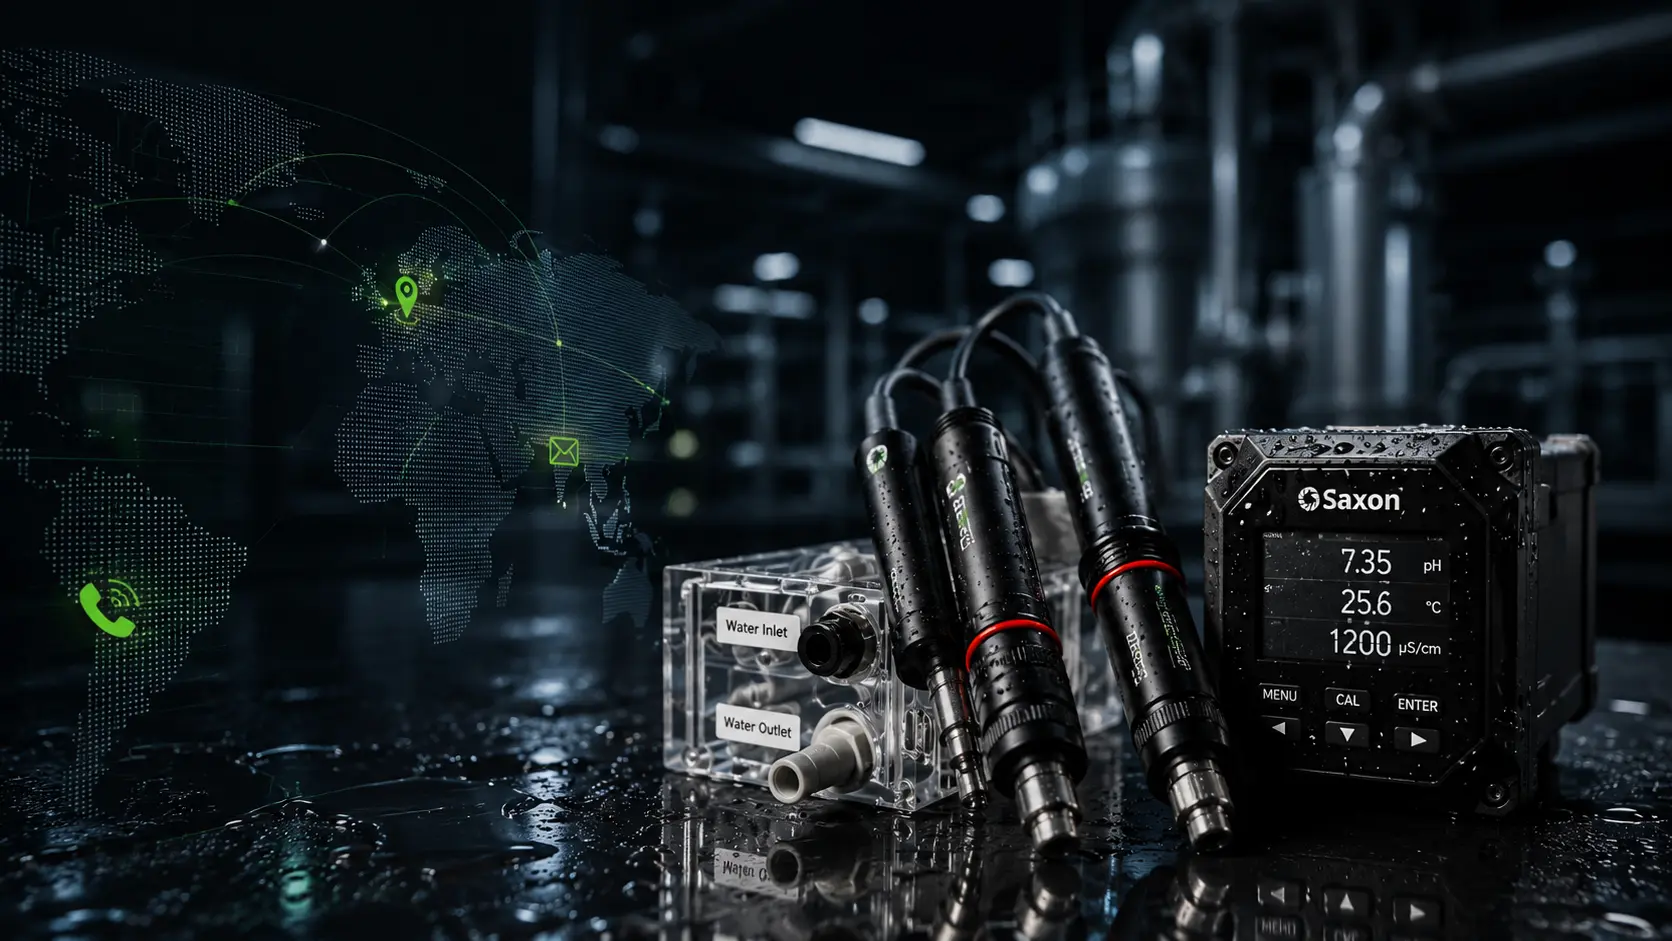
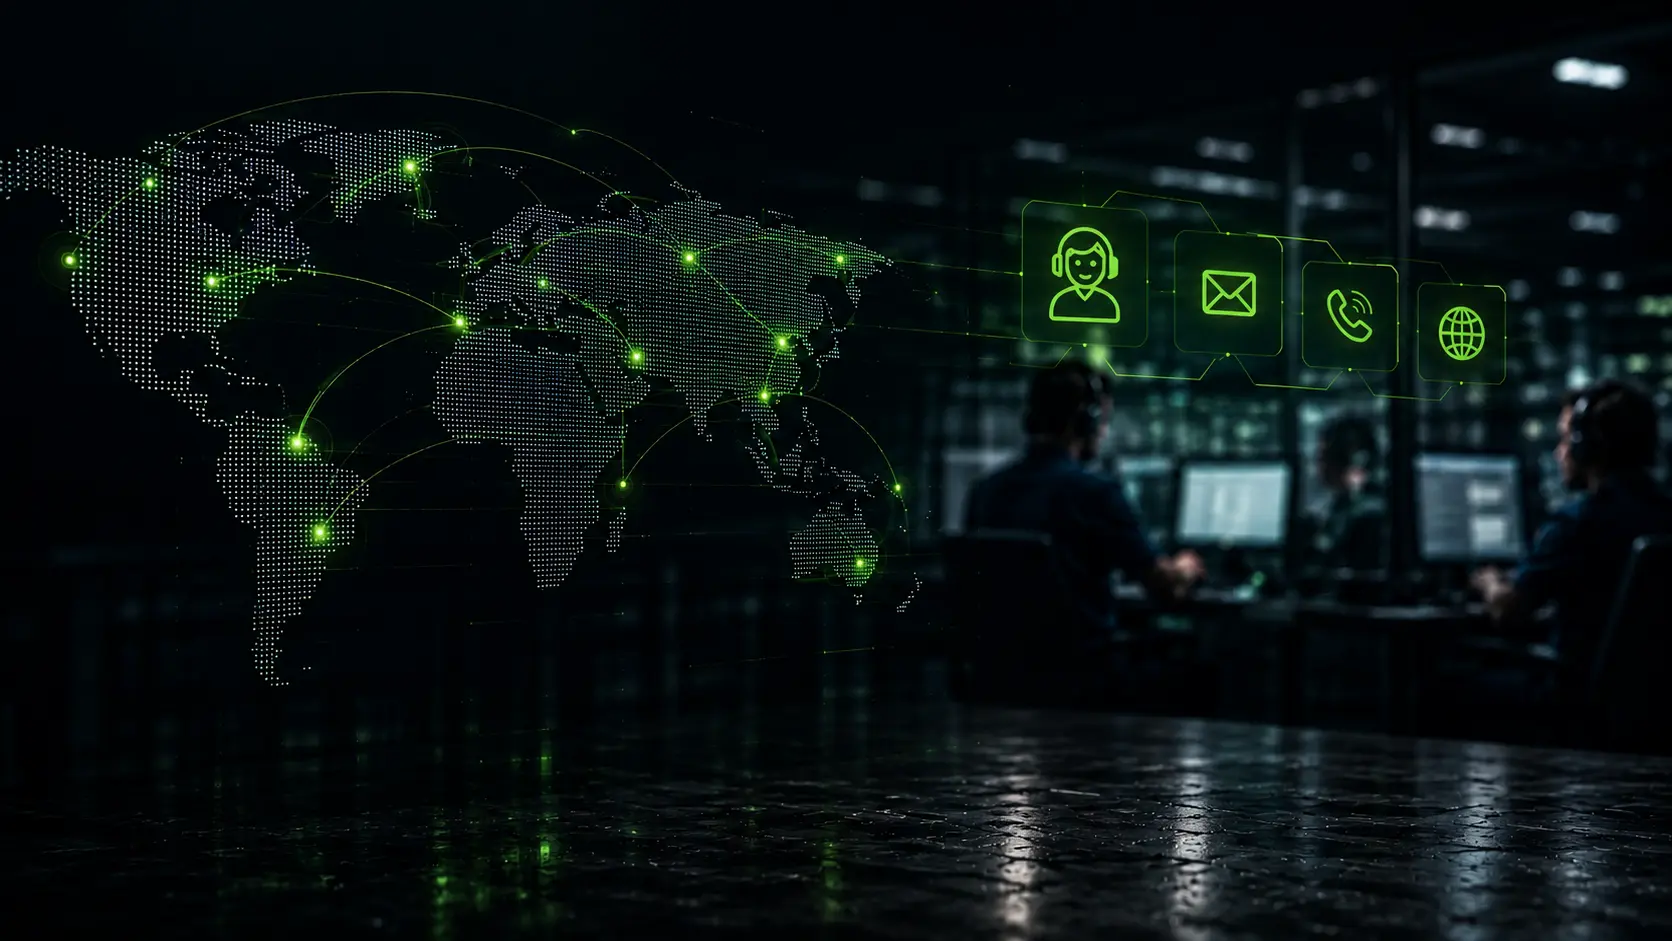
about contact

diff --git a/resources/views/pages/about.blade.php b/resources/views/pages/about.blade.php
@@ -5,19 +5,16 @@
 @section('content')
 
 <!-- Hero Section -->
-<section class="relative pt-32 pb-32 lg:pt-48 lg:pb-40 overflow-hidden min-h-[670px] lg:min-h-[700px]">
-    <div class="absolute inset-0 z-0 bg-[#05080D]">
+<section class="relative pt-32 pb-24 lg:pt-48 lg:pb-32 overflow-hidden min-h-[500px] lg:min-h-[700px] bg-[#05080D]">
+    <div class="absolute inset-0 z-0">
         <img src="/assets/hero/about-hero.webp" alt="About Us Background" class="w-full h-full object-cover opacity-80">
-        <!-- Dark Edge Smoothing -->
-        <div class="absolute inset-x-0 bottom-0 h-48 bg-gradient-to-t from-[#05080D] via-[#05080D]/60 to-transparent pointer-events-none"></div>
+        <!-- Dark Edge Smoothing to white -->
+        <div class="absolute inset-x-0 bottom-0 h-12 lg:h-20 bg-gradient-to-t from-white via-white/70 to-transparent pointer-events-none z-10"></div>
     </div>
-    
-    <!-- White Mist Transition to next section -->
-    <div class="absolute inset-x-0 bottom-0 h-32 lg:h-48 bg-gradient-to-t from-white via-white/80 to-transparent pointer-events-none z-10"></div>
     <div class="max-w-7xl mx-auto px-4 sm:px-6 lg:px-8 relative z-20">
         <div class="w-full lg:w-[80%] fade-in-up relative">
             <!-- Fog behind text -->
-            <div class="absolute -inset-10 lg:-inset-20 z-0 pointer-events-none" style="background: radial-gradient(ellipse at center left, rgba(5,8,13,0.9) 0%, rgba(5,8,13,0.6) 50%, transparent 80%); filter: blur(40px);"></div>
+            <div class="absolute -inset-4 lg:-inset-10 z-0 pointer-events-none" style="background: radial-gradient(ellipse at center left, rgba(5,8,13,0.85) 0%, rgba(5,8,13,0.5) 45%, transparent 75%); filter: blur(30px);"></div>
             
             <div class="relative z-10">
             <p class="text-[#6EDC44] font-bold tracking-widest text-xs lg:text-sm uppercase mb-3">About Us</p>

diff --git a/resources/views/pages/contact.blade.php b/resources/views/pages/contact.blade.php
@@ -10,13 +10,13 @@
     <div class="absolute inset-0 z-0">
         <img src="/assets/hero/contact-hero.webp" alt="Contact Us Background" class="w-full h-full object-cover object-center opacity-60 mix-blend-screen" style="image-rendering: auto;">
         <!-- Dark Edge Smoothing to white -->
-        <div class="absolute inset-x-0 bottom-0 h-24 lg:h-32 bg-gradient-to-t from-white via-white/70 to-transparent pointer-events-none z-10"></div>
+        <div class="absolute inset-x-0 bottom-0 h-12 lg:h-20 bg-gradient-to-t from-white via-white/70 to-transparent pointer-events-none z-10"></div>
     </div>
     
     <div class="max-w-7xl mx-auto px-4 sm:px-6 lg:px-8 relative z-20">
         <div class="w-full lg:w-[75%] fade-in-up relative">
             <!-- Fog behind text -->
-            <div class="absolute -inset-10 lg:-inset-20 z-0 pointer-events-none" style="background: radial-gradient(ellipse at center left, rgba(5,8,13,0.9) 0%, rgba(5,8,13,0.6) 50%, transparent 80%); filter: blur(40px);"></div>
+            <div class="absolute -inset-4 lg:-inset-10 z-0 pointer-events-none" style="background: radial-gradient(ellipse at center left, rgba(5,8,13,0.85) 0%, rgba(5,8,13,0.5) 45%, transparent 75%); filter: blur(30px);"></div>
             
             <div class="relative z-10">
                 <p class="text-[#6EDC44] font-bold tracking-widest text-xs lg:text-sm uppercase mb-3">Contact Us</p>

diff --git a/resources/views/components/navbar.blade.php b/resources/views/components/navbar.blade.php
@@ -1,4 +1,4 @@
-<nav x-data="{ mobileMenuOpen: false }" class="fixed w-full z-50 top-0 transition-all duration-300 bg-[#05080D]/40 backdrop-blur-md border-b border-white/10" id="navbar">
+<nav x-data="{ mobileMenuOpen: false }" class="sticky w-full z-50 top-0 transition-all duration-300 bg-[#05080D]/80 backdrop-blur-md border-b border-white/10" id="navbar">
     <div class="max-w-7xl mx-auto px-4 sm:px-6 lg:px-8">
         <div class="flex items-center justify-between h-[88px]">
             <!-- Logo -->